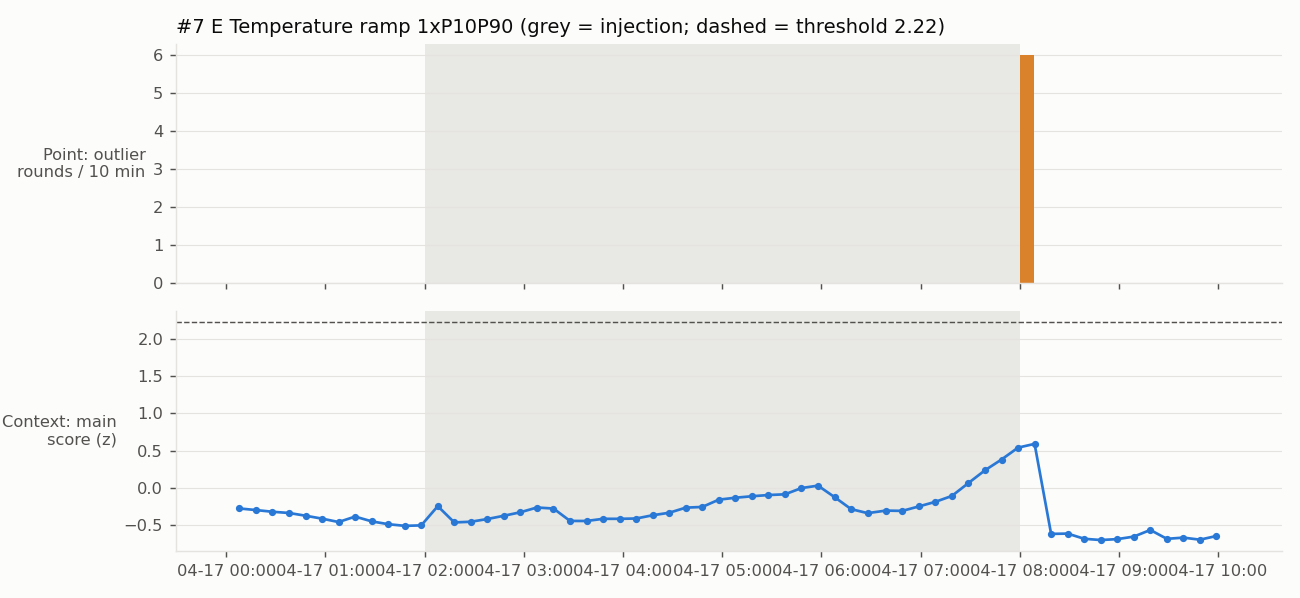
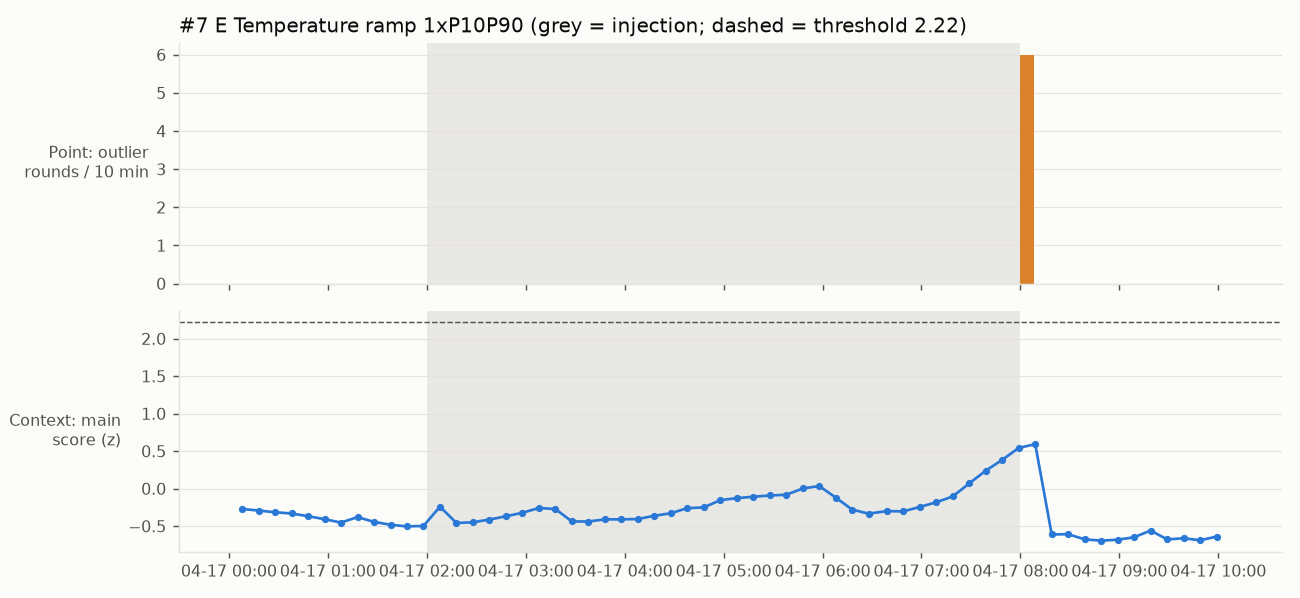
fix(m3): 召回表的注入日期不再计入恰在零点结束的次日；点通道离群轮分区间内与结束后；图题去掉中文字形
背景时段误含 04-18、04-22 两个非平稳日，使上下文通道背景显示 7.13%，实际为 0。召回结果按修正后的脚本重算入库。

Claude-Session: https://claude.ai/code/session_01Pp1j9XSHfbrepGvDQTqthD

diff --git a/deploy/scripts/m3_injection_recall.py b/deploy/scripts/m3_injection_recall.py
@@ -81,7 +81,9 @@ def main():
         ctx[d].sort()
 
     # 背景：注入日期内、所有注入区间（前后各加一个窗长）之外 / background outside all injection spans
-    inj_days = {day(t["start"]) for t in truth} | {day(t["end"]) for t in truth}
+    # 区间左闭右开：结束时刻恰在零点时不属于次日，所以取 end - 1 所在的日期。
+    # Intervals are half-open: an injection ending exactly at midnight does not touch the next day.
+    inj_days = {day(t["start"]) for t in truth} | {day(t["end"] - 1) for t in truth}
     def outside(dv, ts, w):
         return all(not (t["start"] - w <= ts < t["end"] + w) for t in truth if t["device"] == dv)
     bg = {}
@@ -109,6 +111,10 @@ def main():
             "point_detected": "是" if p_hits else "否",
             "point_delay_sec": (min(p_hits) - s0) if p_hits else "",
             "point_hits": len(p_hits),
+            # 区间内与区间结束后分开计：爬坡、卡死结束时数值跳回原始读数，相当于一次反向阶跃，结束后的离群不代表
+            # 注入本身被识别。Split inside vs after the interval: the return to raw values at the end acts as a step.
+            "point_in": sum(1 for rt, we in point[dv] if s0 <= rt < s1),
+            "point_after": sum(1 for rt, we in point[dv] if s1 <= rt < s1 + W_POINT),
             "point_chance": "%.3f" % (1 - (1 - bpt) ** n_rounds),
             "ctx_detected": "是" if c_hits else "否",
             "ctx_delay_sec": (min(c_hits) - s0) if c_hits else "",
@@ -127,12 +133,13 @@ def main():
          "口径：检出 = 注入区间内（含其后一个窗长：点通道 3600 秒，上下文通道 600 秒）出现超阈；首次检出延迟 = 首个超阈"
          "窗口末减注入开始时刻。点通道只计在到达滑动步内被判离群的轮。「偶然检出概率」按同一设备在注入日期、注入区间"
          "以外的背景超阈比例估算，接近 1 时该行的「检出」不能说明注入被识别。", "",
-         "| 序号 | 通道 | 类型 | 档位 | 开始（UTC） | 时长 | 点通道检出 | 点通道延迟 | 点通道偶然概率 | 上下文检出 | 上下文延迟 | 上下文超阈窗/窗 | 上下文偶然概率 |",
-         "| --- | --- | --- | --- | --- | --- | --- | --- | --- | --- | --- | --- | --- |"]
+         "| 序号 | 通道 | 类型 | 档位 | 开始（UTC） | 时长 | 点通道检出 | 点通道延迟 | 点通道离群轮（区间内/结束后） | 点通道偶然概率 | 上下文检出 | 上下文延迟 | 上下文超阈窗/窗 | 上下文偶然概率 |",
+         "| --- | --- | --- | --- | --- | --- | --- | --- | --- | --- | --- | --- | --- | --- |"]
     for r in rows:
-        L.append("| %d | %s | %s | %s | %s | %s | %s | %s | %s | %s | %s | %s | %s |" % (
+        L.append("| %d | %s | %s | %s | %s | %s | %s | %s | %s | %s | %s | %s | %s | %s |" % (
             r["no"], r["channel"], r["type"], r["level"], r["start_utc"],
-            fmt_delay(r["duration_sec"]), r["point_detected"], fmt_delay(r["point_delay_sec"]), r["point_chance"],
+            fmt_delay(r["duration_sec"]), r["point_detected"], fmt_delay(r["point_delay_sec"]),
+            "%d/%d" % (r["point_in"], r["point_after"]), r["point_chance"],
             r["ctx_detected"], fmt_delay(r["ctx_delay_sec"]), r["ctx_hits"], r["ctx_chance"]))
     L += ["", "## 背景", ""]
     for dv, (bctx, bpt, n) in sorted(bg.items()):
@@ -187,7 +194,7 @@ def figures(a, rows, truth, point, ctx):
         axes[1].axhline(2.22, color=INK2, lw=0.8, ls="--")
         axes[1].set_ylabel("Context: main\nscore (z)", rotation=0, ha="right", va="center")
         axes[0].set_title("#%d %s %s %s %s (grey = injection; dashed = threshold 2.22)"
-                          % (r["no"], dv, t["channel"], t["type"], r["level"]), loc="left")
+                          % (r["no"], dv, t["channel"], t["type"], r["level"].replace("轮", " rounds")), loc="left")
         axes[1].xaxis.set_major_formatter(mdates.DateFormatter("%m-%d %H:%M"))
         fig.tight_layout()
         fig.savefig(os.path.join(a.out_dir, "figs", "inject_%02d_%s.png" % (r["no"], t["type"])), dpi=130)

diff --git a/docs/m3_inject/recall/recall.md b/docs/m3_inject/recall/recall.md
@@ -2,26 +2,26 @@
 
 口径：检出 = 注入区间内（含其后一个窗长：点通道 3600 秒，上下文通道 600 秒）出现超阈；首次检出延迟 = 首个超阈窗口末减注入开始时刻。点通道只计在到达滑动步内被判离群的轮。「偶然检出概率」按同一设备在注入日期、注入区间以外的背景超阈比例估算，接近 1 时该行的「检出」不能说明注入被识别。
 
-| 序号 | 通道 | 类型 | 档位 | 开始（UTC） | 时长 | 点通道检出 | 点通道延迟 | 点通道偶然概率 | 上下文检出 | 上下文延迟 | 上下文超阈窗/窗 | 上下文偶然概率 |
-| --- | --- | --- | --- | --- | --- | --- | --- | --- | --- | --- | --- | --- |
-| 1 | Temperature | spike | 1xP10P90/1轮 | 04-05 02:00:08 | 10 秒 | 是 | 52 秒 | 0.348 | 否 | - | 0/1 | 0.071 |
-| 2 | Temperature | spike | 2xP10P90/2轮 | 04-05 04:00:25 | 20 秒 | 是 | 35 秒 | 0.349 | 否 | - | 0/1 | 0.071 |
-| 3 | Temperature | spike | 4xP10P90/3轮 | 04-05 06:00:51 | 31 秒 | 是 | 9 秒 | 0.349 | 是 | 429 秒 | 1/1 | 0.071 |
-| 4 | Temperature | step | 1xP10P90 | 04-05 08:01:22 | 120.0 分钟 | 是 | 38 秒 | 0.722 | 是 | 77.6 分钟 | 2/13 | 0.618 |
-| 5 | Temperature | step | 2xP10P90 | 04-05 12:01:22 | 120.0 分钟 | 是 | 38 秒 | 0.722 | 是 | 458 秒 | 13/13 | 0.618 |
-| 6 | Temperature | step | 4xP10P90 | 04-05 16:01:22 | 120.0 分钟 | 是 | 38 秒 | 0.722 | 是 | 518 秒 | 13/13 | 0.618 |
-| 7 | Temperature | ramp | 1xP10P90 | 04-17 02:00:00 | 360.0 分钟 | 是 | 361.0 分钟 | 0.949 | 否 | - | 0/37 | 0.935 |
-| 8 | Temperature | ramp | 2xP10P90 | 04-17 10:00:00 | 360.0 分钟 | 是 | 361.0 分钟 | 0.949 | 是 | 149.0 分钟 | 22/37 | 0.935 |
-| 9 | Temperature | ramp | 4xP10P90 | 04-17 18:00:00 | 360.0 分钟 | 是 | 361.0 分钟 | 0.949 | 是 | 40.0 分钟 | 33/36 | 0.930 |
-| 10 | Temperature | stuck | 2h#1 | 04-21 02:00:00 | 120.0 分钟 | 否 | - | 0.722 | 否 | - | 0/13 | 0.618 |
-| 11 | Temperature | stuck | 2h#2 | 04-21 06:00:00 | 120.0 分钟 | 否 | - | 0.722 | 否 | - | 0/13 | 0.618 |
-| 12 | Temperature | stuck | 2h#3 | 04-21 10:00:00 | 120.0 分钟 | 是 | 13.0 分钟 | 0.722 | 否 | - | 0/13 | 0.618 |
-| 13 | Gas | step | 2xP10P90 | 04-21 14:00:00 | 120.0 分钟 | 是 | 60 秒 | 0.722 | 是 | 540 秒 | 13/13 | 0.618 |
-| 14 | Gas | ramp | 2xP10P90 | 04-21 18:00:00 | 360.0 分钟 | 是 | 361.0 分钟 | 0.949 | 是 | 39.0 分钟 | 34/37 | 0.935 |
+| 序号 | 通道 | 类型 | 档位 | 开始（UTC） | 时长 | 点通道检出 | 点通道延迟 | 点通道离群轮（区间内/结束后） | 点通道偶然概率 | 上下文检出 | 上下文延迟 | 上下文超阈窗/窗 | 上下文偶然概率 |
+| --- | --- | --- | --- | --- | --- | --- | --- | --- | --- | --- | --- | --- | --- |
+| 1 | Temperature | spike | 1xP10P90/1轮 | 04-05 02:00:08 | 10 秒 | 是 | 52 秒 | 1/0 | 0.000 | 否 | - | 0/1 | 0.000 |
+| 2 | Temperature | spike | 2xP10P90/2轮 | 04-05 04:00:25 | 20 秒 | 是 | 35 秒 | 2/0 | 0.000 | 否 | - | 0/1 | 0.000 |
+| 3 | Temperature | spike | 4xP10P90/3轮 | 04-05 06:00:51 | 31 秒 | 是 | 9 秒 | 3/0 | 0.000 | 是 | 429 秒 | 1/1 | 0.000 |
+| 4 | Temperature | step | 1xP10P90 | 04-05 08:01:22 | 120.0 分钟 | 是 | 38 秒 | 10/10 | 0.000 | 是 | 77.6 分钟 | 2/13 | 0.000 |
+| 5 | Temperature | step | 2xP10P90 | 04-05 12:01:22 | 120.0 分钟 | 是 | 38 秒 | 9/10 | 0.000 | 是 | 458 秒 | 13/13 | 0.000 |
+| 6 | Temperature | step | 4xP10P90 | 04-05 16:01:22 | 120.0 分钟 | 是 | 38 秒 | 9/10 | 0.000 | 是 | 518 秒 | 13/13 | 0.000 |
+| 7 | Temperature | ramp | 1xP10P90 | 04-17 02:00:00 | 360.0 分钟 | 是 | 361.0 分钟 | 0/6 | 0.000 | 否 | - | 0/37 | 0.000 |
+| 8 | Temperature | ramp | 2xP10P90 | 04-17 10:00:00 | 360.0 分钟 | 是 | 361.0 分钟 | 0/6 | 0.000 | 是 | 149.0 分钟 | 22/37 | 0.000 |
+| 9 | Temperature | ramp | 4xP10P90 | 04-17 18:00:00 | 360.0 分钟 | 是 | 361.0 分钟 | 0/6 | 0.000 | 是 | 40.0 分钟 | 33/36 | 0.000 |
+| 10 | Temperature | stuck | 2h#1 | 04-21 02:00:00 | 120.0 分钟 | 否 | - | 0/0 | 0.000 | 否 | - | 0/13 | 0.000 |
+| 11 | Temperature | stuck | 2h#2 | 04-21 06:00:00 | 120.0 分钟 | 否 | - | 0/0 | 0.000 | 否 | - | 0/13 | 0.000 |
+| 12 | Temperature | stuck | 2h#3 | 04-21 10:00:00 | 120.0 分钟 | 是 | 13.0 分钟 | 3/6 | 0.000 | 否 | - | 0/13 | 0.000 |
+| 13 | Gas | step | 2xP10P90 | 04-21 14:00:00 | 120.0 分钟 | 是 | 60 秒 | 6/6 | 0.000 | 是 | 540 秒 | 13/13 | 0.000 |
+| 14 | Gas | ramp | 2xP10P90 | 04-21 18:00:00 | 360.0 分钟 | 是 | 361.0 分钟 | 0/6 | 0.000 | 是 | 39.0 分钟 | 34/37 | 0.000 |
 
 ## 背景
 
-- 设备 E：上下文通道背景超阈比例 7.13%（463 个窗口）；点通道背景离群轮比例 0.118%。
+- 设备 E：上下文通道背景超阈比例 0.00%（177 个窗口）；点通道背景离群轮比例 0.000%。
 
 ## 三条预言的核对数据（判定由报告给出）
 
